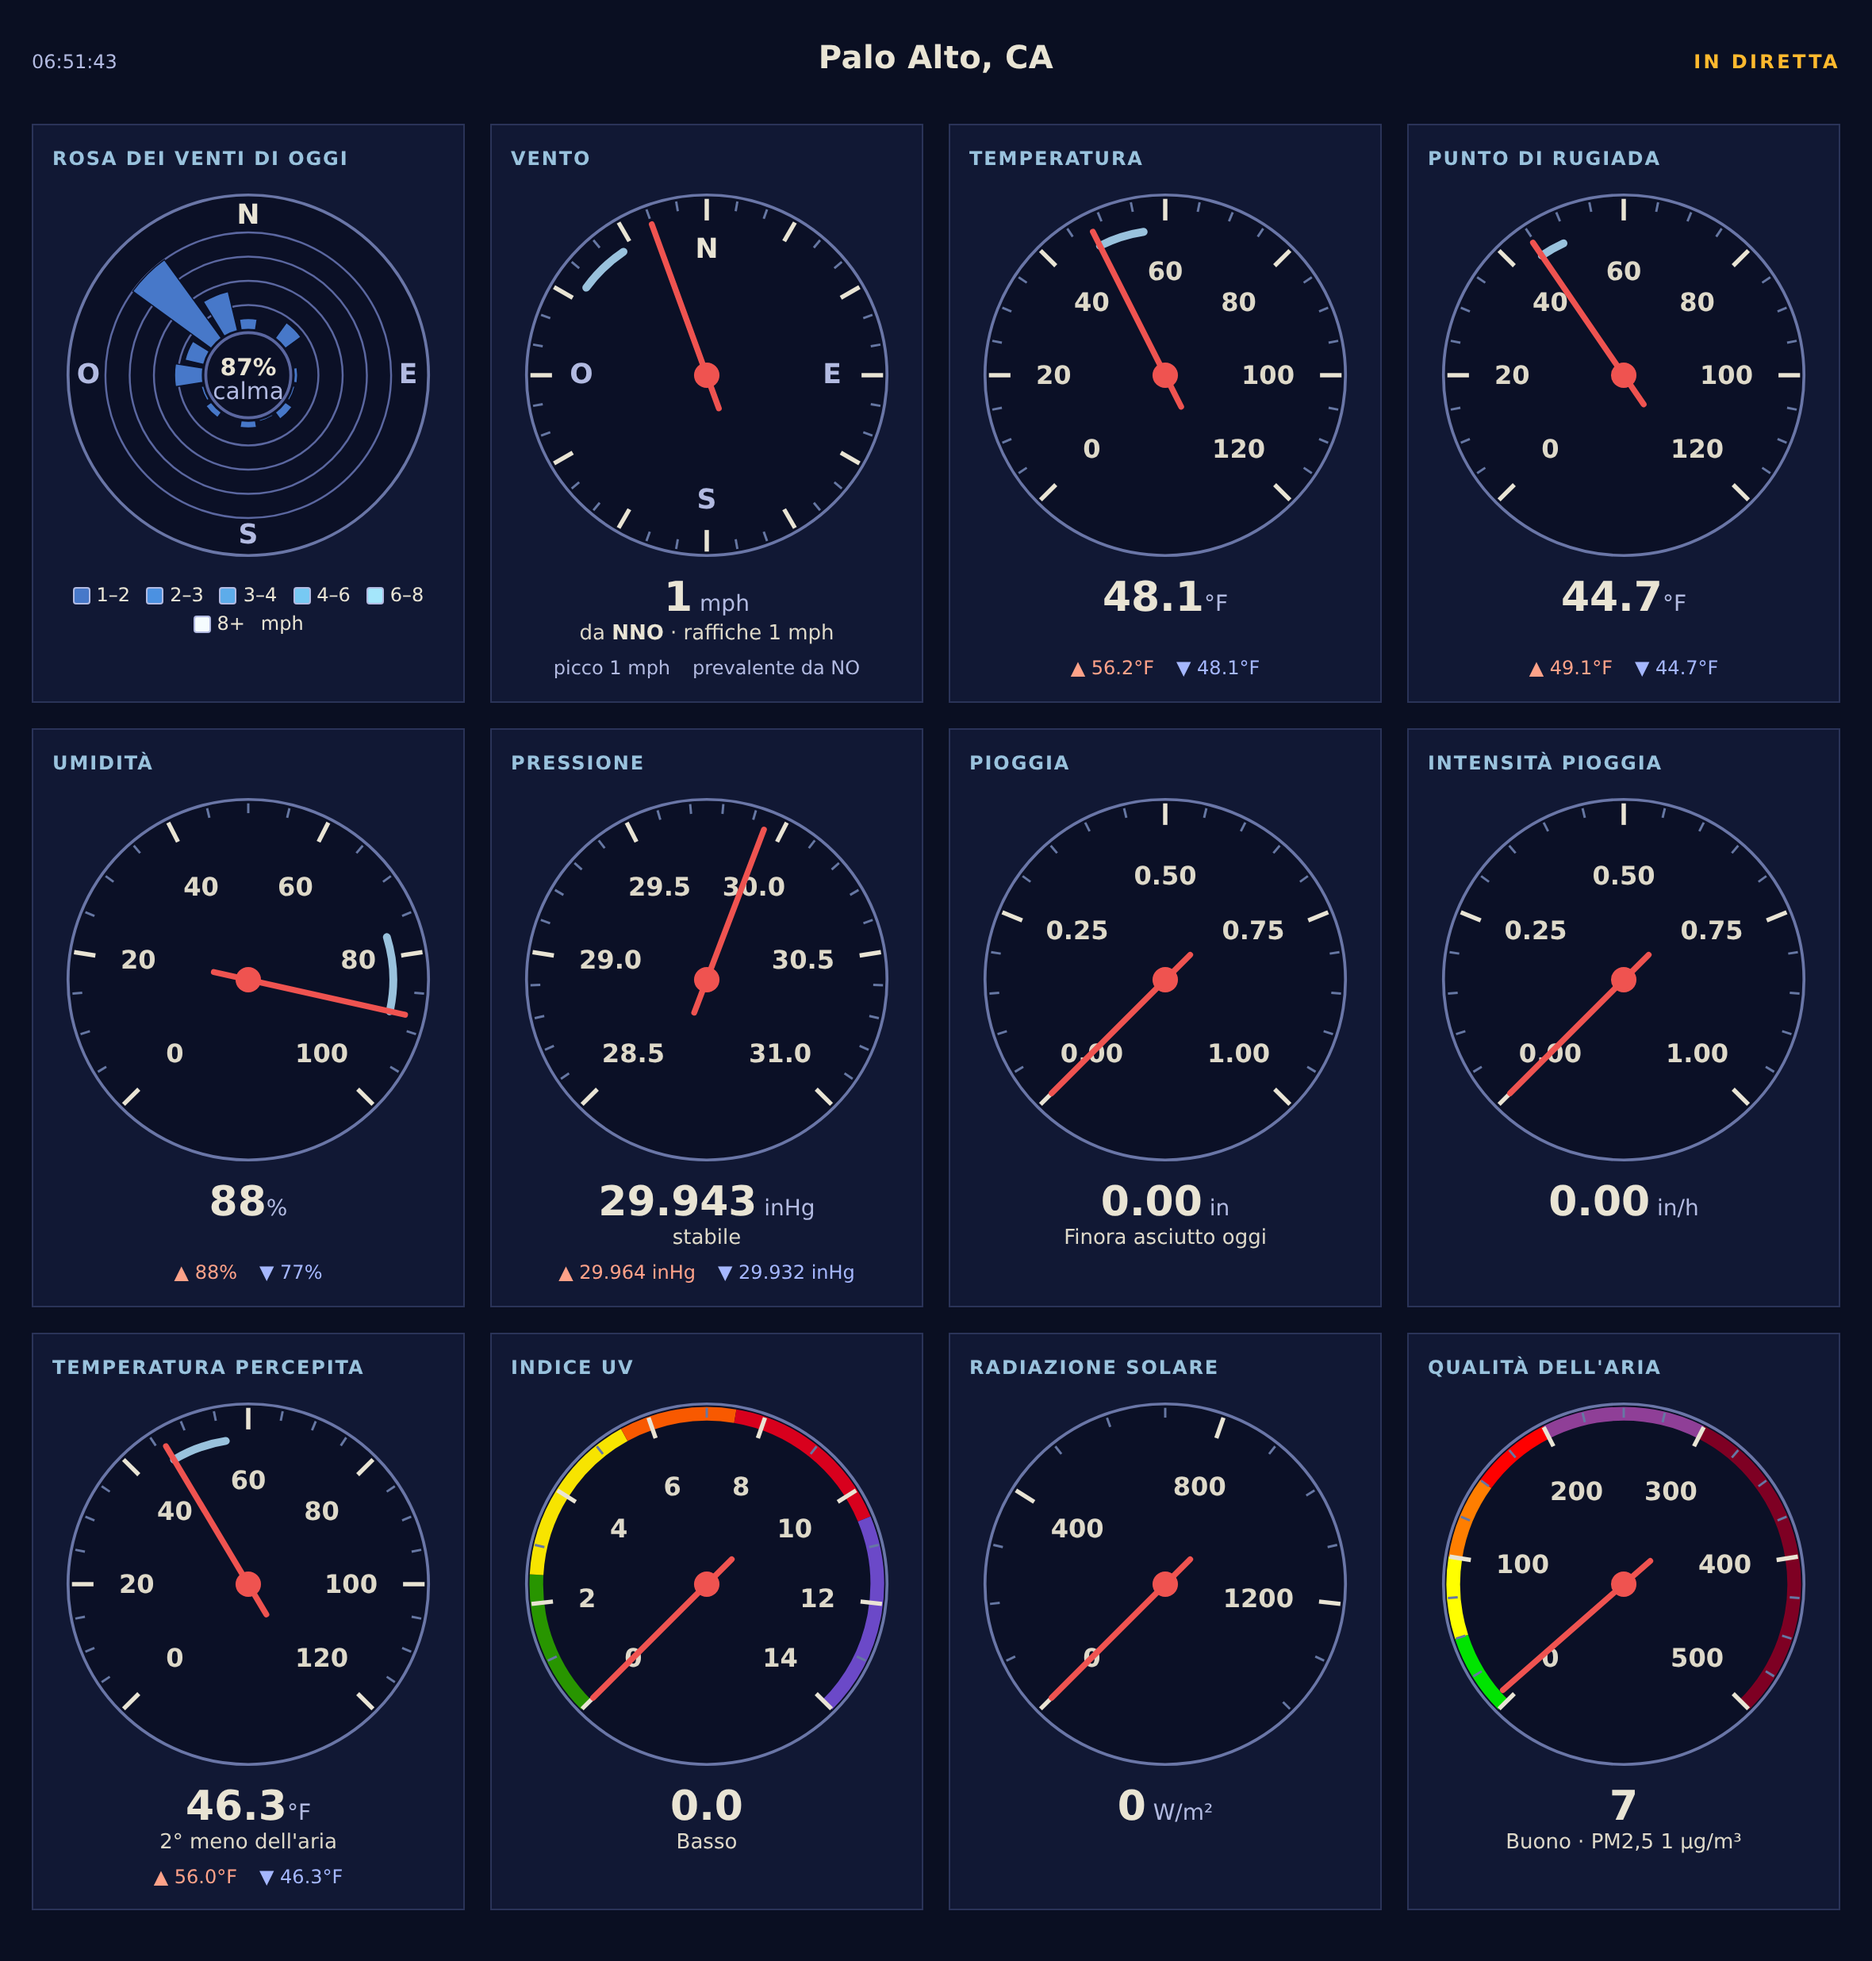
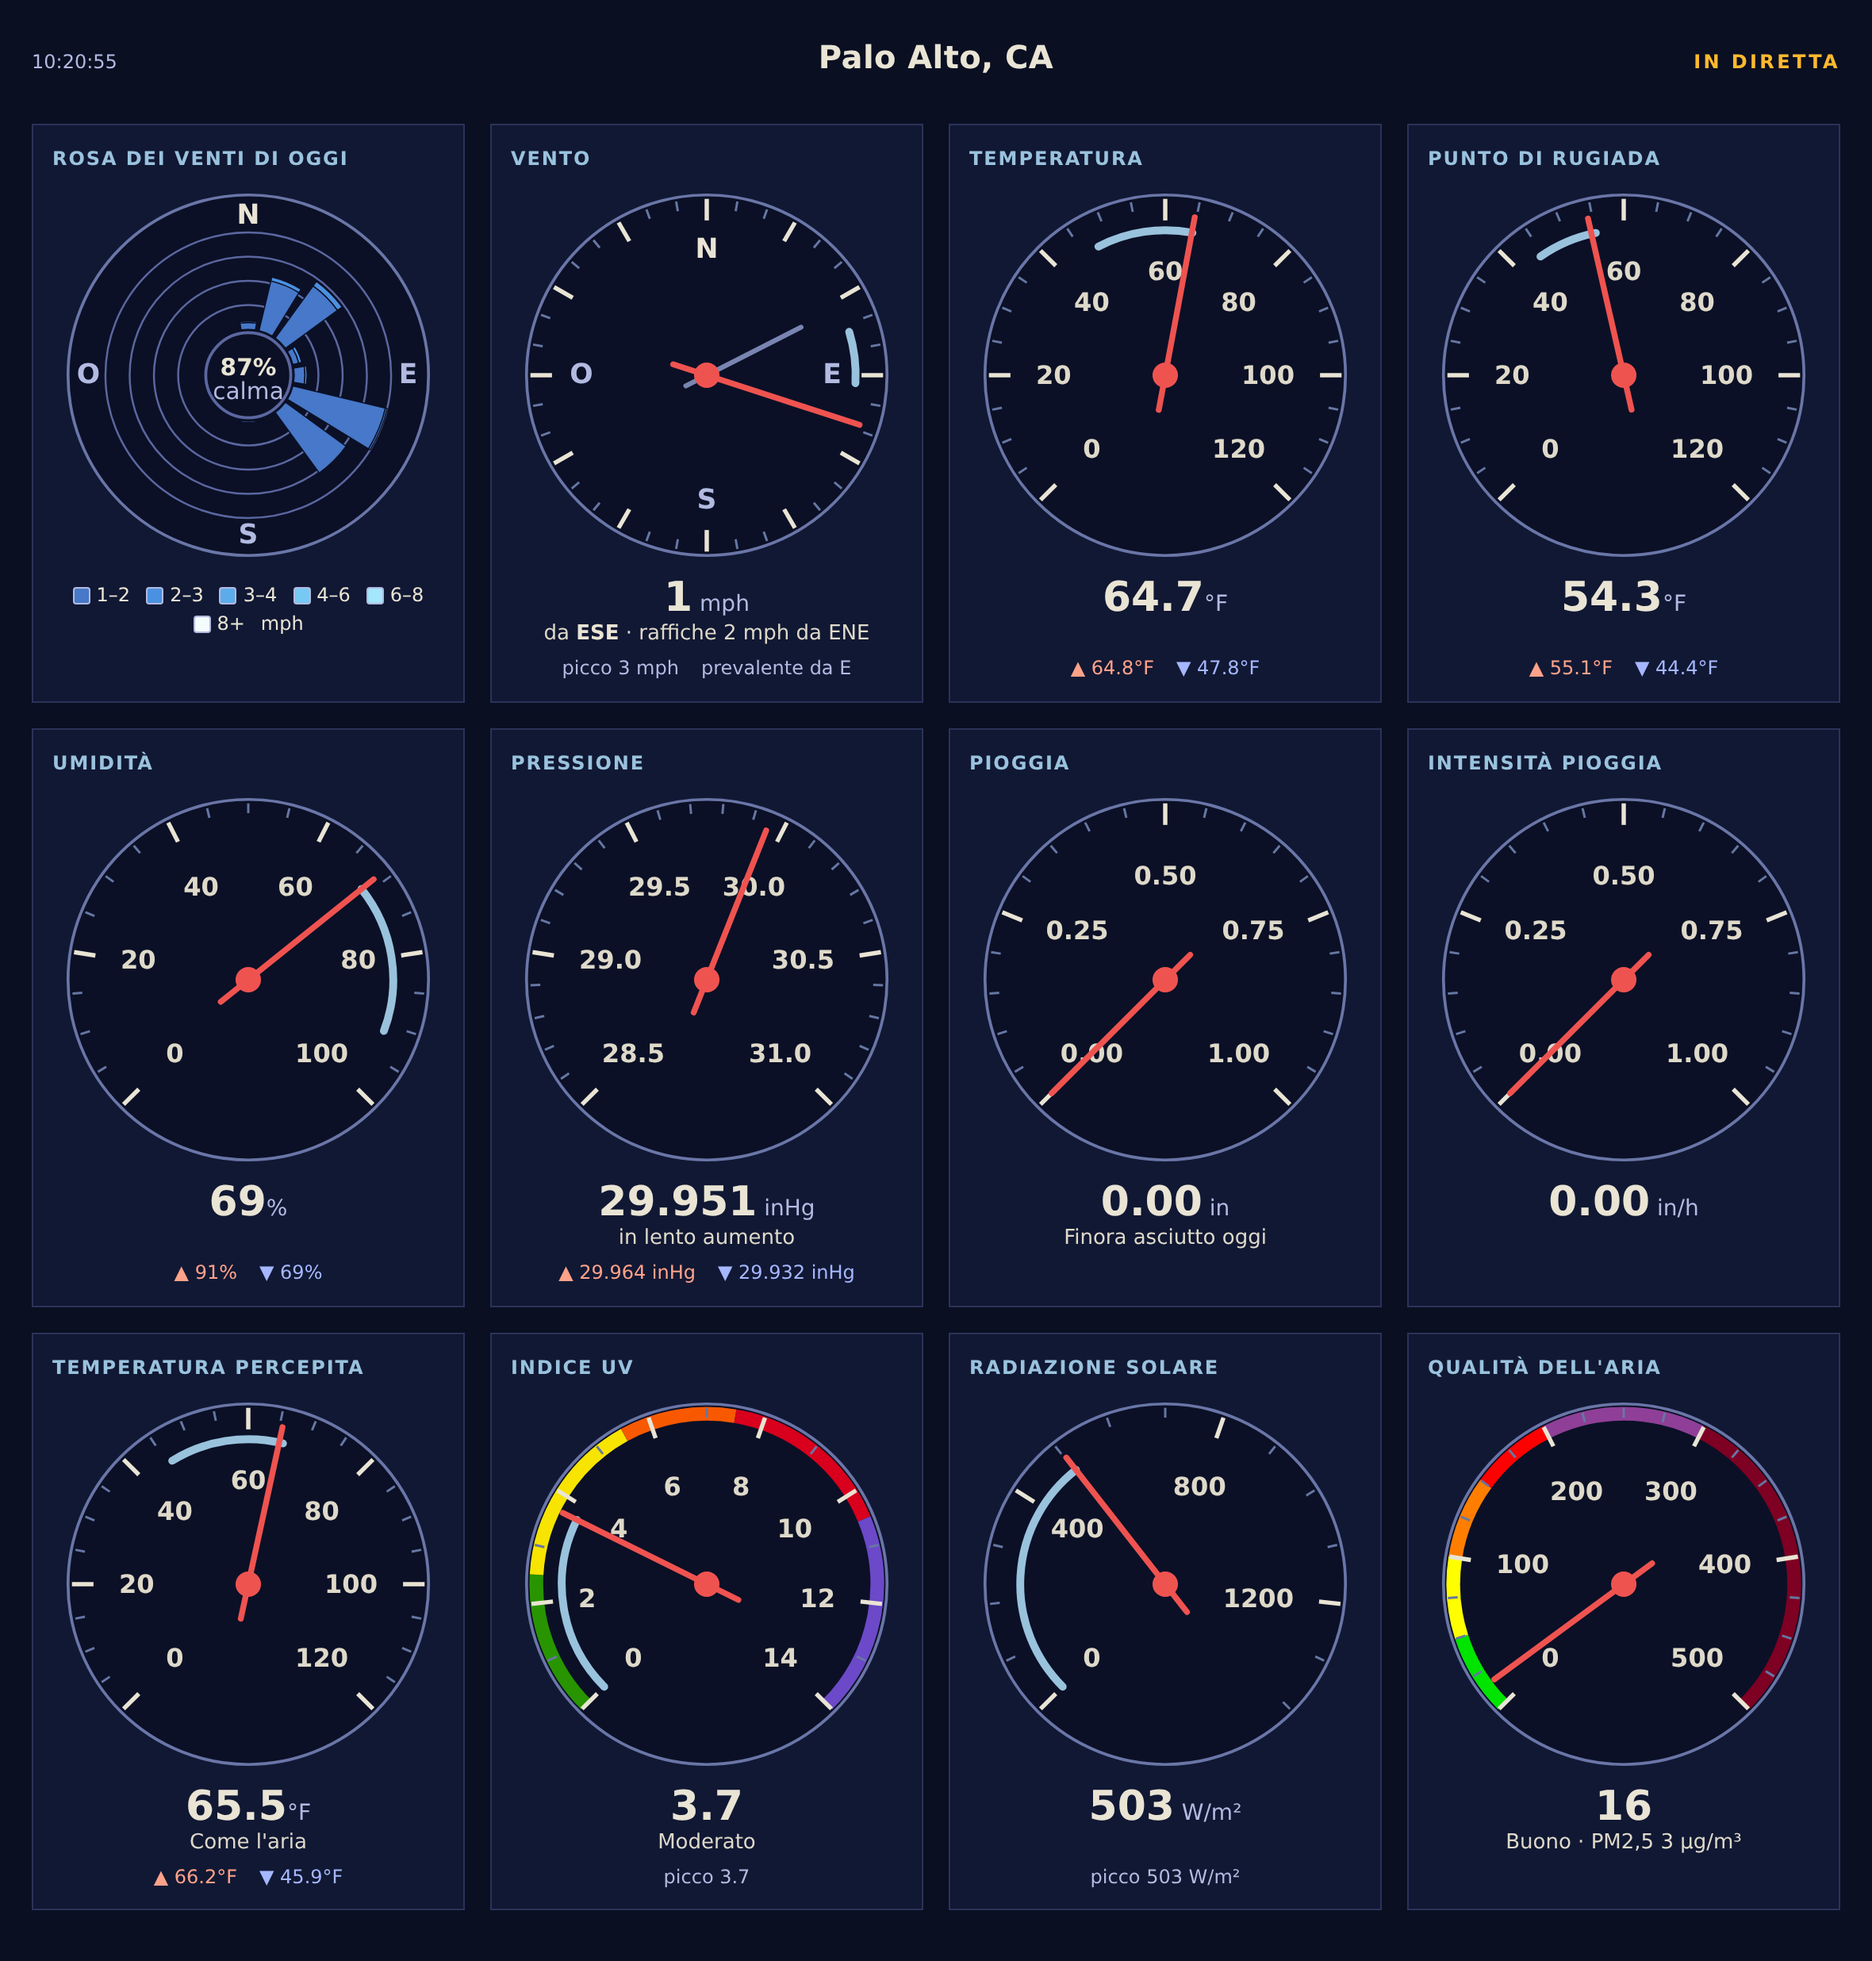
The sample report's wind compass points with the dials' red arm and a plain gust needle instead of arrowheads, its hub takes the gust's color in a calm, and the barometer's trend arc is drawn only once the change is big enough to show its head; the screenshots are retaken to show both needles.  Rele

diff --git a/install.py b/install.py
@@ -280,7 +280,7 @@ def loader():
 class LoopDataInstaller(ExtensionInstaller):
     def __init__(self):
         super(LoopDataInstaller, self).__init__(
-            version = "7.5.1",
+            version = "7.5.2",
             name = 'loopdata',
             description = 'Loop statistics for real time reporting.',
             author = "John A Kline",

diff --git a/bin/user/loopdata.py b/bin/user/loopdata.py
@@ -58,7 +58,7 @@ from weewx.engine import StdService
 # get a logger object
 log = logging.getLogger(__name__)
 
-LOOP_DATA_VERSION = '7.5.1'
+LOOP_DATA_VERSION = '7.5.2'
 
 if sys.version_info[0] < 3 or (sys.version_info[0] == 3 and sys.version_info[1] < 7):
     raise weewx.UnsupportedFeature(

diff --git a/changes.md b/changes.md
@@ -1,6 +1,6 @@
 # weewx-loopdata change history
 
-## 7.x (in progress)
+## 7.5.2 2026/09/26
 - The sample report's wind compass points with the same red arm as the
   dials beside it, and the gust with a plain lighter needle; both used to
   carry arrowheads.  The tip marks where the wind comes from, and an
